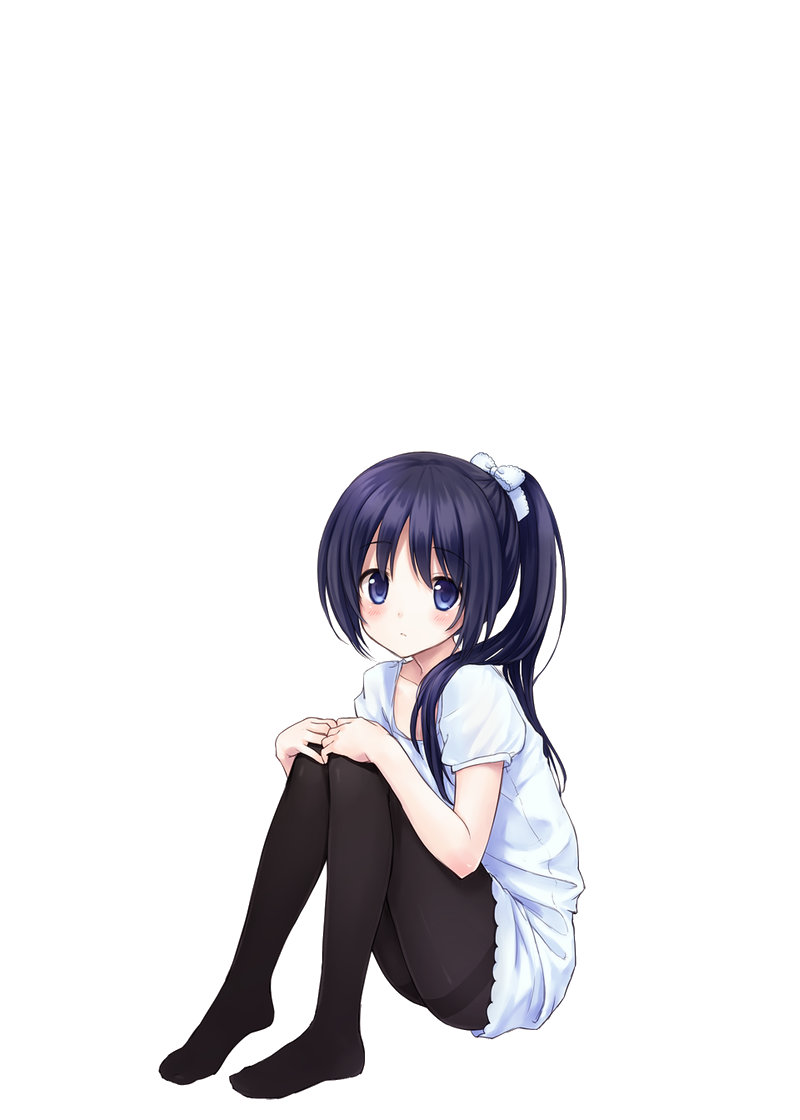
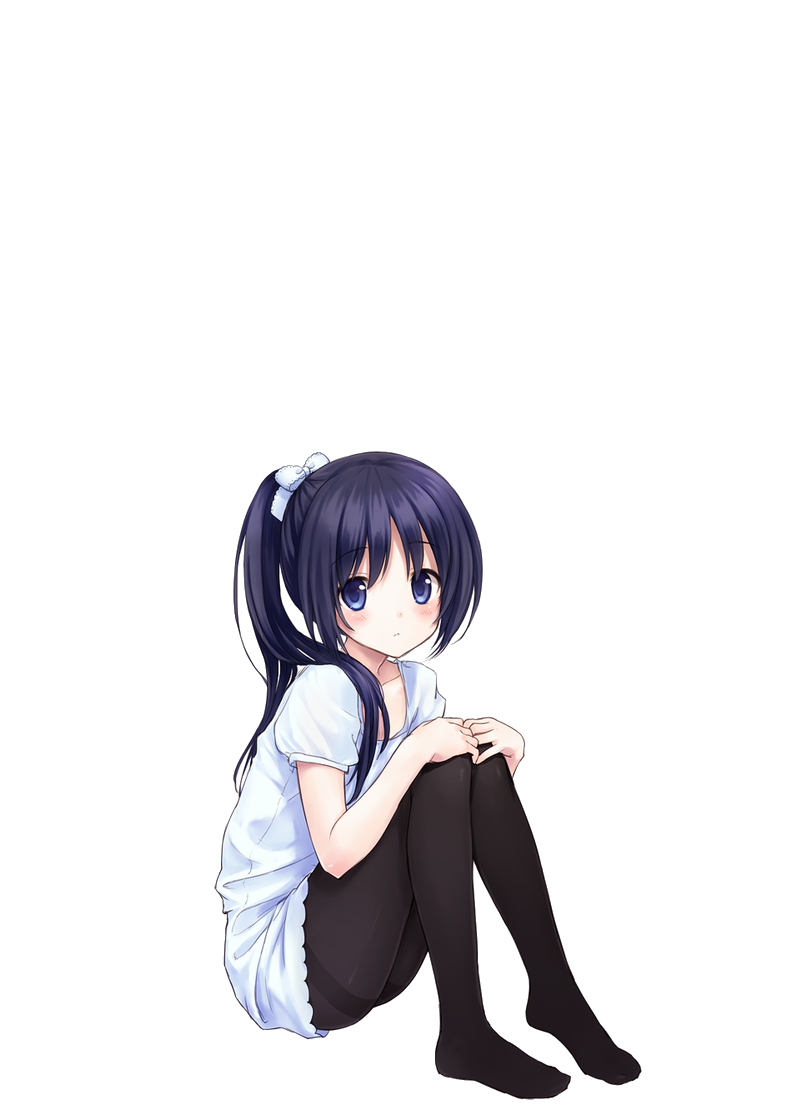
Flipped images so all designs can be drawn as if left sided, then will be flipped by CSS Setup conditional rendering for character images

Changed region(s): [[0.1875, 0.4062, 0.8125, 1.0]]

diff --git a/game.jsx b/game.jsx
@@ -10,28 +10,60 @@ class Game extends React.Component {
         
         this.state = {i: 0, currentStory : this.story[0]};
         this.handleClick = this.handleClick.bind(this);
+        this.updateWindowDimensions = this.updateWindowDimensions.bind(this);
     }
 
     backgroundStyle(){
         return {
-        backgroundImage : "url(./src/images/"+this.state.currentStory.location+")",
-        backgroundRepeat: "no-repeat",
-        backgroundPosition: "center 80%",
-        backgroundSize: "cover"
+            backgroundImage : "url(./src/images/"+this.state.currentStory.location+")",
+            backgroundRepeat: "no-repeat",
+            backgroundPosition: "center 80%",
+            backgroundSize: "cover"
         }
+    }
+
+    calculateCharacterPosition(){
+        let ratio = window.innerHeight * 0.7 / 1120;
+        let width = 800 * ratio;
+        return width;
     }
 
     leftCharacterStyle(){
         return {
+            position: 'absolute',
+            height: window.innerHeight * 0.7,
+            top: window.innerHeight * 0.3,
+            left: 0
 
         }
     }
 
+    rightCharacterStyle(){
+
+        return {
+            position: 'absolute',
+            height: window.innerHeight * 0.7,
+            transform: 'scaleX(-1)',
+            top: window.innerHeight * 0.3,
+            left: window.innerWidth - this.calculateCharacterPosition()
+        }
+    }
+
     componentDidMount(){
+        this.updateWindowDimensions();
+        window.addEventListener('resize', this.updateWindowDimensions);
         this.setState(prevState =>({
             i: 0,
             currentStory: this.story[0]
         }))
+    }
+      
+    componentWillUnmount() {
+    window.removeEventListener('resize', this.updateWindowDimensions);
+    }
+      
+    updateWindowDimensions() {
+    this.setState({});
     }
 
     handleClick(e){
@@ -43,16 +75,32 @@ class Game extends React.Component {
     }
 
     render(){
-        return <div id="container">
-        <div id = 'game'
-        onClick = {this.handleClick}
-        style= {this.backgroundStyle()}
-        />
-        <img id="leftCharacter"
-        />
-        <img id="rightCharacter"
-        />
-        </div>
+        let left, right;
+        let current = this.state.currentStory;
+        if(current.leftCharacter != '' && current.leftCharacter != null && current.leftCharacter != undefined){
+            left =  <img id="leftCharacter"
+                    src={'./src/images/'+this.state.currentStory.leftCharacter+'.png'}
+                    style= {this.leftCharacterStyle()}
+                    />
+        }
+
+        
+        if(current.rightCharacter != '' && current.rightCharacter != null && current.rightCharacter != undefined){
+            right =  <img id="rightCharacter"
+                    src={'./src/images/'+this.state.currentStory.rightCharacter+'.png'}
+                    style= {this.rightCharacterStyle()}
+                    />
+        }
+
+
+        return  <div id="container"
+                onClick = {this.handleClick}>
+                    <div id = 'game'
+                        style= {this.backgroundStyle()}
+                    />
+                    {left}
+                    {right}
+                </div>
         
     }
 }

diff --git a/src/story.js b/src/story.js
@@ -1,8 +1,8 @@
 module.exports = [
 {
     location:'park-background.jpg',
-    leftCharacter:'',
-    rightCharacter:'',
+    leftCharacter:'beth',
+    rightCharacter:'ryan',
     monologue:'Lorem Ipsum Galore...',
     leftComment:"My name is beth",
     rightComment:"My name's ryan!"

diff --git a/webpack.config.js b/webpack.config.js
@@ -1,5 +1,5 @@
-var path = require('path');
-var webpack = require('webpack');
+const path = require('path');
+const webpack = require('webpack');
  
 module.exports = {
   entry: './main.js',
